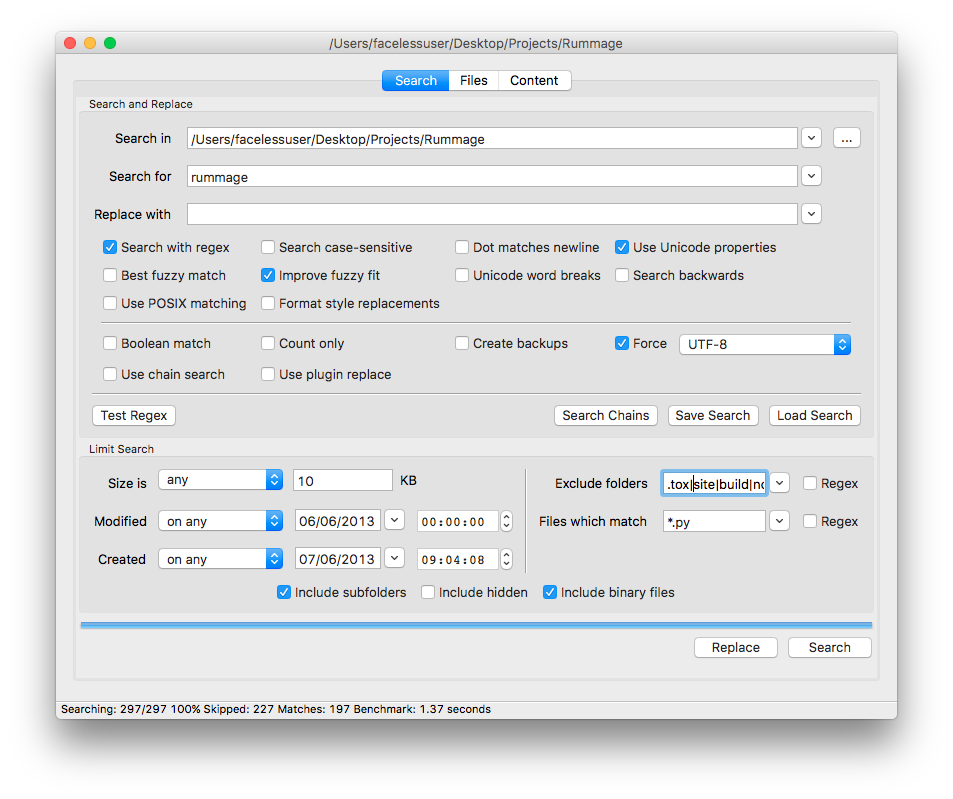
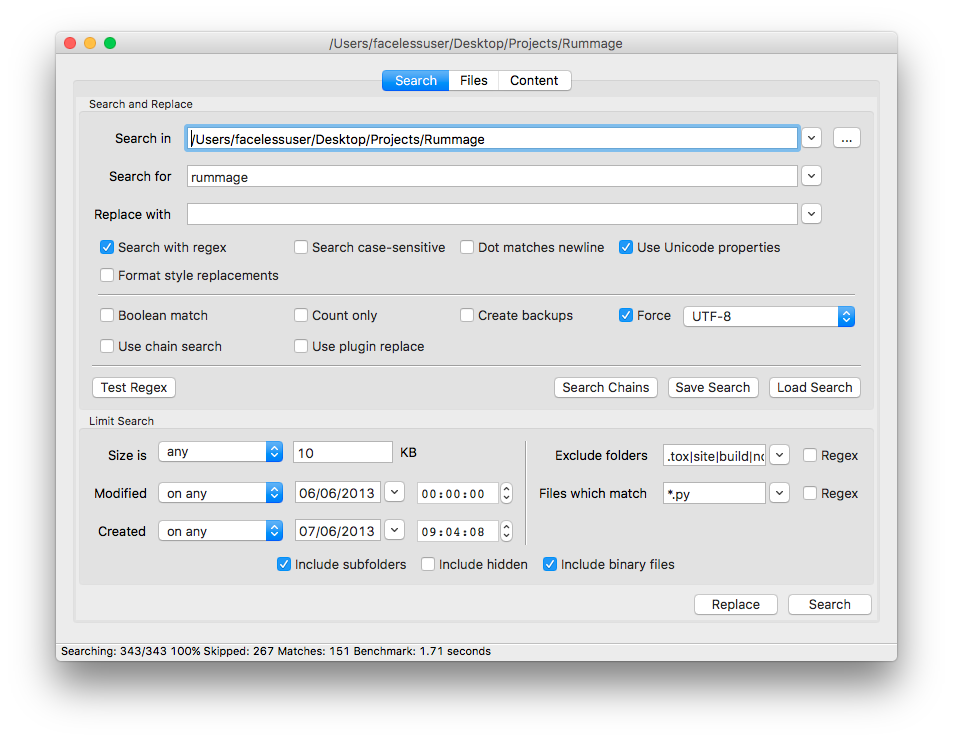
Update image and changelog
Update preview image without progressbar. And add new changes to changelog.

diff --git a/docs/src/markdown/changelog.md b/docs/src/markdown/changelog.md
@@ -1,5 +1,10 @@
 # Changelog
 
+## 3.2.0
+
+- **NEW**: Results update live. Progress has been removed. (#140)
+- **FIX**: Windows status bar flicker.
+
 ## 3.1.0
 
 Oct 22, 2017
